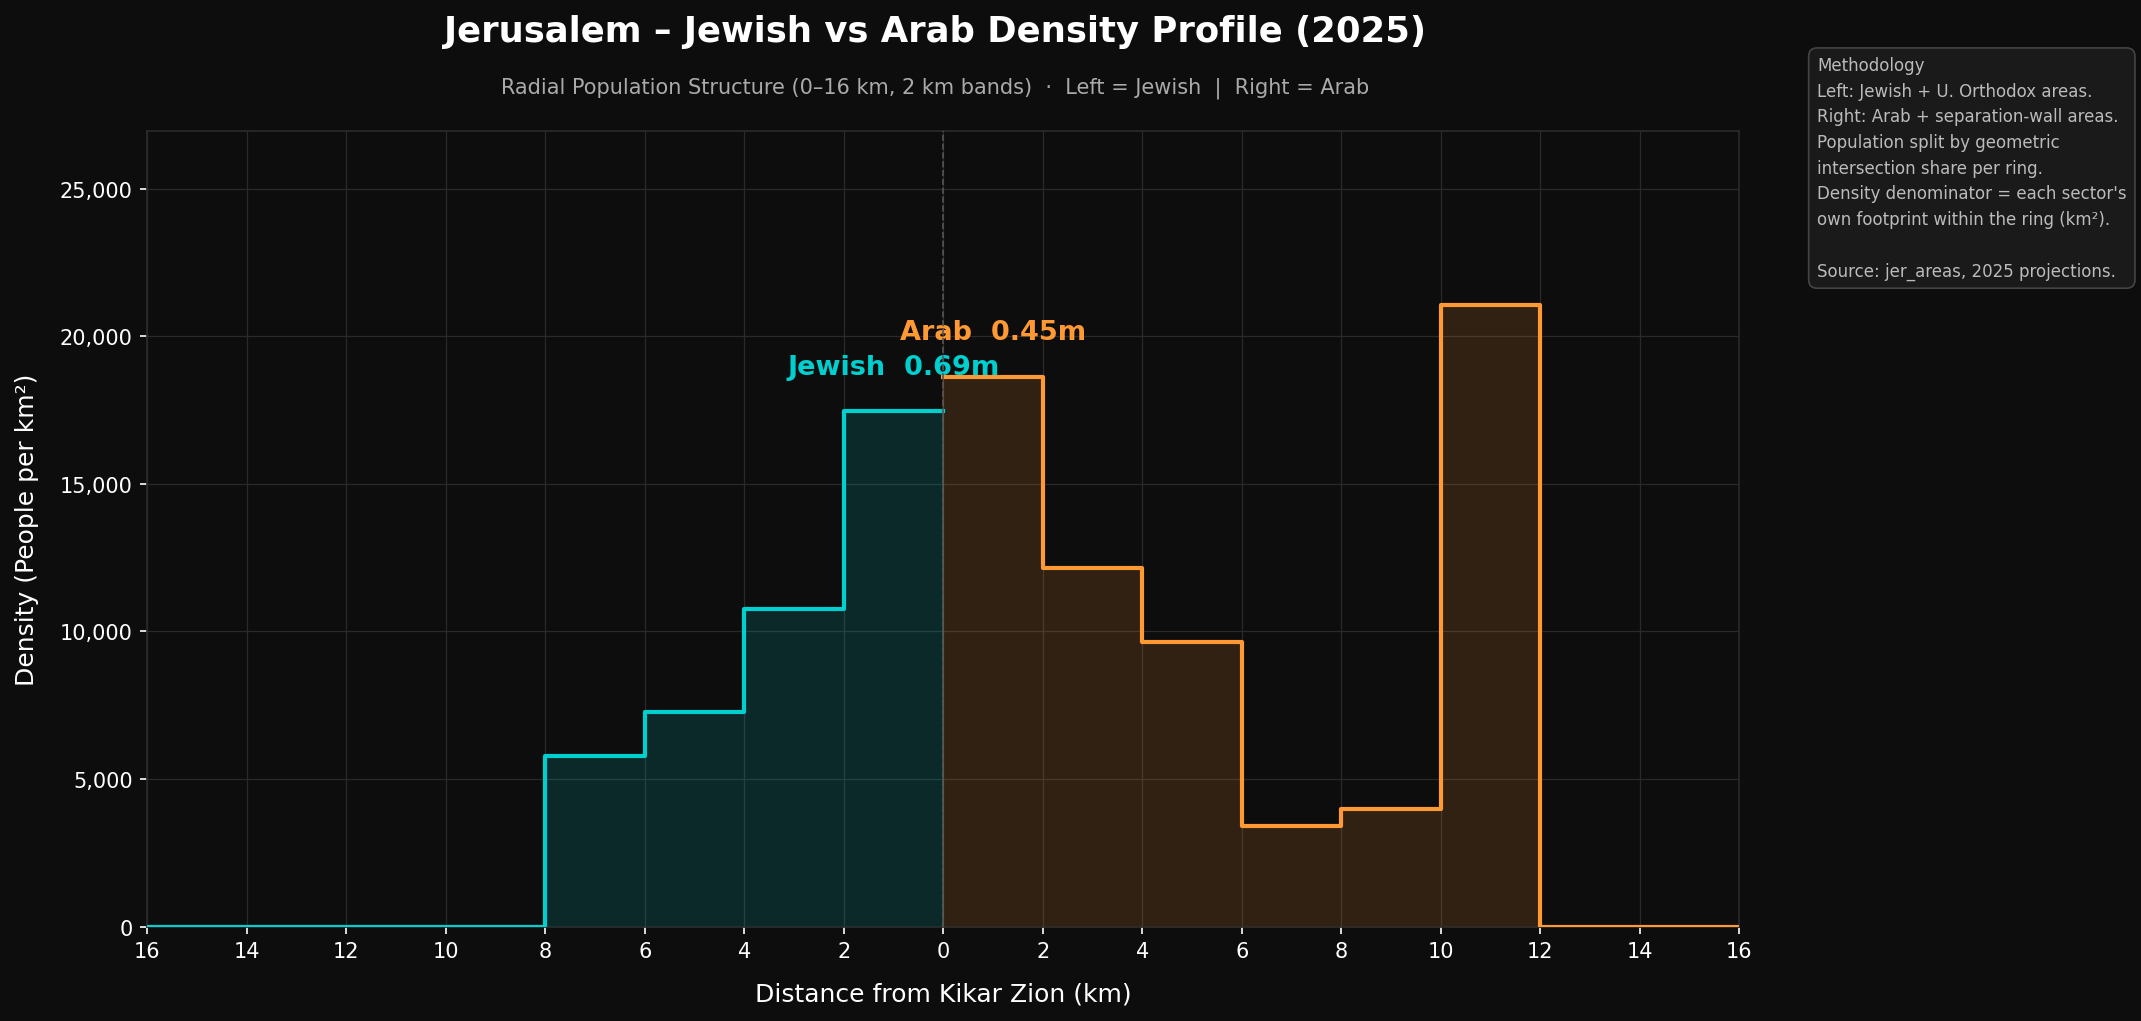
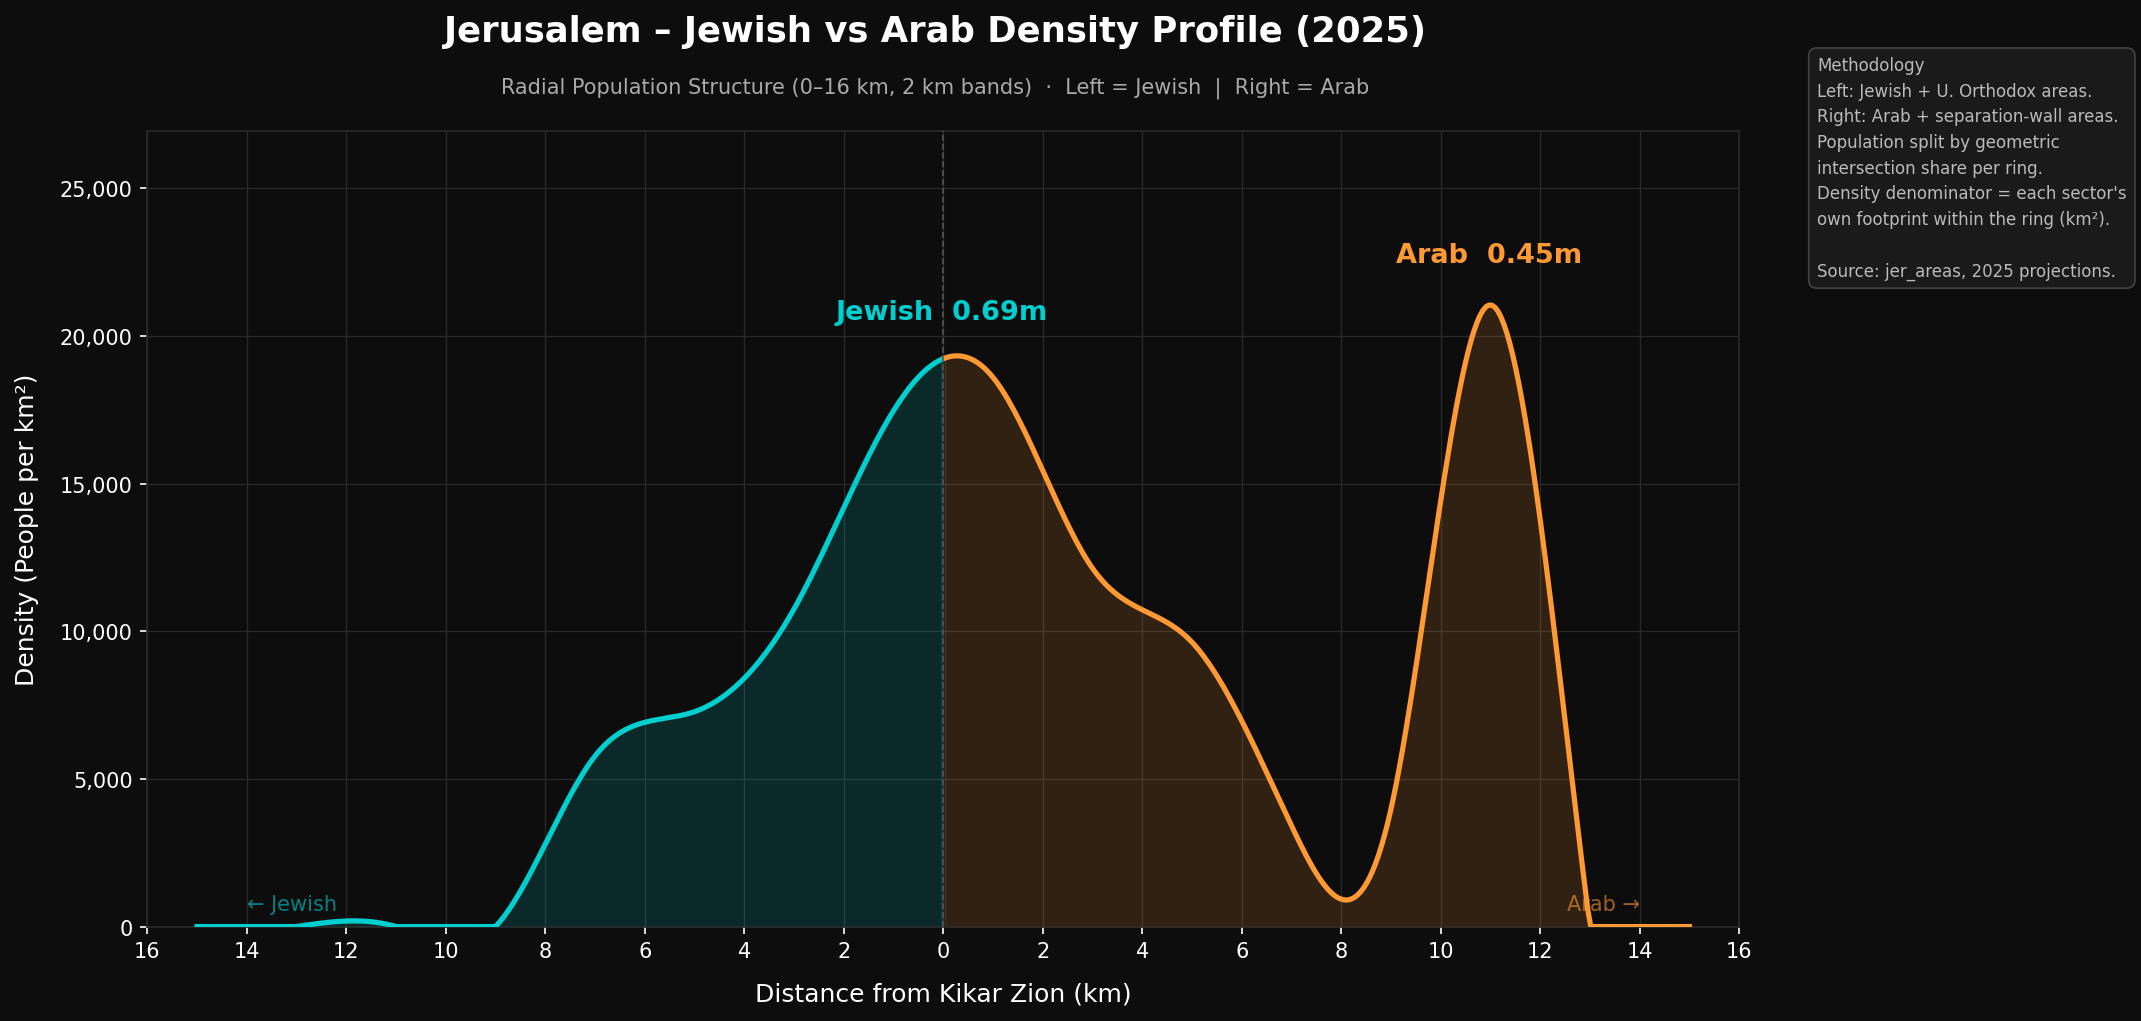
Revert "Fix density profiles: replace spline with discrete ring steps"
This reverts commit e9a63d56a708d9f627fd6543b3e41f07a64047bf.

diff --git a/population_figure/asymmetric_profile.py b/population_figure/asymmetric_profile.py
@@ -13,6 +13,7 @@ import geopandas as gpd
 import matplotlib
 matplotlib.use("Agg")
 import matplotlib.pyplot as plt
+from scipy.interpolate import make_interp_spline
 from shapely.geometry import Point
 import os
 
@@ -85,51 +86,64 @@ print(f"\n  Jewish densities: {[f'{d:,.0f}' for d in jewish_dens]}")
 print(f"  Arab   densities: {[f'{d:,.0f}' for d in arab_dens]}")
 print(f"  Jewish total: {jewish_total:,.0f}   Arab total: {arab_total:,.0f}")
 
-# ── Build step arrays for each side ──────────────────────────────────────────
-rw = RING_WIDTH / 1000  # 2 km
+# ── Build asymmetric x / y ────────────────────────────────────────────────────
+# Left  (negative x) = Jewish, reading outward from centre to left
+# Right (positive x) = Arab,   reading outward from centre to right
+x_left  = -midpoints[::-1]          # -15, -13, …, -1
+x_right =  midpoints                #   1,   3, …,  15
 
-def steps_left(dens):
-    x, y = [], []
-    for r in range(len(dens) - 1, -1, -1):
-        x += [-(r + 1) * rw, -r * rw]
-        y += [dens[r], dens[r]]
-    return np.array(x), np.array(y)
+y_left  = np.array(jewish_dens[::-1])
+y_right = np.array(arab_dens)
 
-def steps_right(dens):
-    x, y = [], []
-    for r in range(len(dens)):
-        x += [r * rw, (r + 1) * rw]
-        y += [dens[r], dens[r]]
-    return np.array(x), np.array(y)
+x = np.concatenate([x_left, x_right])
+y = np.concatenate([y_left, y_right])
 
-xl, yl = steps_left(jewish_dens)
-xr, yr = steps_right(arab_dens)
+x_s = np.linspace(x[0], x[-1], 500)
+y_s = np.clip(make_interp_spline(x, y, k=3)(x_s), 0, None)
+
+# Separate smooth halves for individual fills
+mask_left  = x_s <= 0
+mask_right = x_s >= 0
 
 # ── Plot ──────────────────────────────────────────────────────────────────────
 fig, ax = plt.subplots(figsize=(14, 7), facecolor=BG_COLOR)
 ax.set_facecolor(BG_COLOR)
 
-ax.plot(xl, yl, color=JEWISH_COLOR, linewidth=2.0, zorder=3)
-ax.fill_between(xl, yl, alpha=0.15, color=JEWISH_COLOR, zorder=2)
+# Left (Jewish) – cyan
+ax.plot(x_s[mask_left],  y_s[mask_left],  color=JEWISH_COLOR, linewidth=2.5, zorder=3)
+ax.fill_between(x_s[mask_left], y_s[mask_left], alpha=0.15, color=JEWISH_COLOR, zorder=2)
 
-ax.plot(xr, yr, color=ARAB_COLOR, linewidth=2.0, zorder=3)
-ax.fill_between(xr, yr, alpha=0.15, color=ARAB_COLOR, zorder=2)
+# Right (Arab) – orange
+ax.plot(x_s[mask_right], y_s[mask_right], color=ARAB_COLOR,   linewidth=2.5, zorder=3)
+ax.fill_between(x_s[mask_right], y_s[mask_right], alpha=0.15, color=ARAB_COLOR, zorder=2)
 
+# Centre divider
 ax.axvline(0, color="#555555", linewidth=0.8, linestyle="--", zorder=4)
 
-# Labels at peak ring
-ax.text(-rw / 2, jewish_dens[0] * 1.06,
+# Labels
+jewish_peak_i = int(np.argmax(y_s[mask_left]))
+arab_peak_i   = int(np.argmax(y_s[mask_right]))
+x_lp = x_s[mask_left][jewish_peak_i]
+x_rp = x_s[mask_right][arab_peak_i]
+
+ax.text(x_lp, y_s[mask_left][jewish_peak_i]  * 1.06,
         f"Jewish  {jewish_total/1e6:.2f}m",
         color=JEWISH_COLOR, fontsize=13, fontweight="bold", ha="center", va="bottom")
-ax.text( rw / 2, arab_dens[0] * 1.06,
+ax.text(x_rp, y_s[mask_right][arab_peak_i] * 1.06,
         f"Arab  {arab_total/1e6:.2f}m",
         color=ARAB_COLOR, fontsize=13, fontweight="bold", ha="center", va="bottom")
+
+# Side labels
+ax.text(-14, ax.get_ylim()[1] * 0.02 if ax.get_ylim()[1] > 0 else 200,
+        "← Jewish", color=JEWISH_COLOR, fontsize=10, alpha=0.6, va="bottom")
+ax.text( 14, ax.get_ylim()[1] * 0.02 if ax.get_ylim()[1] > 0 else 200,
+        "Arab →",   color=ARAB_COLOR,   fontsize=10, alpha=0.6, va="bottom", ha="right")
 
 # Grid & axes
 ax.grid(color=GRID_COLOR, linewidth=0.6, linestyle="-", zorder=1)
 ax.set_axisbelow(True)
 ax.set_xlim(-16, 16)
-ax.set_ylim(0, max(yl.max(), yr.max()) * 1.28)
+ax.set_ylim(0, y_s.max() * 1.28)
 
 x_ticks = list(range(-16, 0, 2)) + list(range(0, 17, 2))
 ax.set_xticks(x_ticks)

diff --git a/population_figure/haredi_vs_jewish_profile.py b/population_figure/haredi_vs_jewish_profile.py
@@ -11,6 +11,7 @@ import geopandas as gpd
 import matplotlib
 matplotlib.use("Agg")
 import matplotlib.pyplot as plt
+from scipy.interpolate import make_interp_spline
 from shapely.geometry import Point
 import os
 
@@ -79,49 +80,43 @@ print(f"\n  Haredi densities:  {[f'{d:,.0f}' for d in haredi_dens]}")
 print(f"  Jewish densities:  {[f'{d:,.0f}' for d in jewish_dens]}")
 print(f"  Haredi total: {haredi_total:,.0f}   Jewish total: {jewish_total:,.0f}")
 
-# ── Step arrays ───────────────────────────────────────────────────────────────
-rw = RING_WIDTH / 1000
+# ── Smooth asymmetric curves ──────────────────────────────────────────────────
+x_left  = -midpoints[::-1]
+x_right =  midpoints
+x       = np.concatenate([x_left, x_right])
+x_s     = np.linspace(x[0], x[-1], 500)
+mask_l  = x_s <= 0
+mask_r  = x_s >= 0
 
-def steps_left(dens):
-    x, y = [], []
-    for r in range(len(dens) - 1, -1, -1):
-        x += [-(r + 1) * rw, -r * rw]
-        y += [dens[r], dens[r]]
-    return np.array(x), np.array(y)
-
-def steps_right(dens):
-    x, y = [], []
-    for r in range(len(dens)):
-        x += [r * rw, (r + 1) * rw]
-        y += [dens[r], dens[r]]
-    return np.array(x), np.array(y)
-
-xh, yh = steps_left(haredi_dens)
-xj, yj = steps_right(jewish_dens)
+y_h = np.clip(make_interp_spline(x, np.concatenate([haredi_dens[::-1], haredi_dens]), k=3)(x_s), 0, None)
+y_j = np.clip(make_interp_spline(x, np.concatenate([jewish_dens[::-1], jewish_dens]), k=3)(x_s), 0, None)
 
 # ── Plot ──────────────────────────────────────────────────────────────────────
 fig, ax = plt.subplots(figsize=(14, 7), facecolor=BG_COLOR)
 ax.set_facecolor(BG_COLOR)
 
-ax.plot(xh, yh, color=HAREDI_COLOR, linewidth=2.0, zorder=3)
-ax.fill_between(xh, yh, alpha=0.15, color=HAREDI_COLOR, zorder=2)
+ax.plot(x_s[mask_l], y_h[mask_l], color=HAREDI_COLOR, linewidth=2.5, zorder=3)
+ax.fill_between(x_s[mask_l], y_h[mask_l], alpha=0.15, color=HAREDI_COLOR, zorder=2)
 
-ax.plot(xj, yj, color=JEWISH_COLOR, linewidth=2.0, zorder=3)
-ax.fill_between(xj, yj, alpha=0.15, color=JEWISH_COLOR, zorder=2)
+ax.plot(x_s[mask_r], y_j[mask_r], color=JEWISH_COLOR, linewidth=2.5, zorder=3)
+ax.fill_between(x_s[mask_r], y_j[mask_r], alpha=0.15, color=JEWISH_COLOR, zorder=2)
 
 ax.axvline(0, color="#555555", linewidth=0.8, linestyle="--", zorder=4)
 
-ax.text(-rw / 2, haredi_dens[0] * 1.06,
+# Peak labels
+h_pi = int(np.argmax(y_h[mask_l]))
+j_pi = int(np.argmax(y_j[mask_r]))
+ax.text(x_s[mask_l][h_pi], y_h[mask_l][h_pi] * 1.06,
         f"Haredi  {haredi_total/1e3:.0f}k",
         color=HAREDI_COLOR, fontsize=13, fontweight="bold", ha="center", va="bottom")
-ax.text( rw / 2, jewish_dens[0] * 1.06,
+ax.text(x_s[mask_r][j_pi], y_j[mask_r][j_pi] * 1.06,
         f"Non-Haredi Jewish  {jewish_total/1e3:.0f}k",
         color=JEWISH_COLOR, fontsize=13, fontweight="bold", ha="center", va="bottom")
 
 ax.grid(color=GRID_COLOR, linewidth=0.6, linestyle="-", zorder=1)
 ax.set_axisbelow(True)
 ax.set_xlim(-16, 16)
-ax.set_ylim(0, max(yh.max(), yj.max()) * 1.28)
+ax.set_ylim(0, max(y_h.max(), y_j.max()) * 1.28)
 
 x_ticks = list(range(-16, 0, 2)) + list(range(0, 17, 2))
 ax.set_xticks(x_ticks)

diff --git a/population_figure/pop_vs_emp_profile.py b/population_figure/pop_vs_emp_profile.py
@@ -10,6 +10,7 @@ import geopandas as gpd
 import matplotlib
 matplotlib.use("Agg")
 import matplotlib.pyplot as plt
+from scipy.interpolate import make_interp_spline
 from shapely.geometry import Point
 import os
 
@@ -85,41 +86,37 @@ print(f"  Pop total: {pop_total:,.0f}   Emp total: {emp_total:,.0f}")
 x_left  = -midpoints[::-1]
 x_right =  midpoints
 
-rw = RING_WIDTH / 1000
+x = np.concatenate([x_left, x_right])
+y_pop_sym = np.concatenate([pop_dens[::-1], pop_dens])   # full mirror for spline
+y_emp_sym = np.concatenate([emp_dens[::-1], emp_dens])
 
-def steps_left(dens):
-    x, y = [], []
-    for r in range(len(dens) - 1, -1, -1):
-        x += [-(r + 1) * rw, -r * rw]
-        y += [dens[r], dens[r]]
-    return np.array(x), np.array(y)
+x_s = np.linspace(x[0], x[-1], 500)
+mask_l = x_s <= 0
+mask_r = x_s >= 0
 
-def steps_right(dens):
-    x, y = [], []
-    for r in range(len(dens)):
-        x += [r * rw, (r + 1) * rw]
-        y += [dens[r], dens[r]]
-    return np.array(x), np.array(y)
-
-xl_pop, yl_pop = steps_left(pop_dens)
-xr_emp, yr_emp = steps_right(emp_dens)
+y_pop_s = np.clip(make_interp_spline(x, y_pop_sym, k=3)(x_s), 0, None)
+y_emp_s = np.clip(make_interp_spline(x, y_emp_sym, k=3)(x_s), 0, None)
 
 # ── Plot ──────────────────────────────────────────────────────────────────────
 fig, ax = plt.subplots(figsize=(14, 7), facecolor=BG_COLOR)
 ax.set_facecolor(BG_COLOR)
 
-ax.plot(xl_pop, yl_pop, color=POP_COLOR, linewidth=2.0, zorder=3)
-ax.fill_between(xl_pop, yl_pop, alpha=0.15, color=POP_COLOR, zorder=2)
+ax.plot(x_s[mask_l], y_pop_s[mask_l], color=POP_COLOR, linewidth=2.5, zorder=3)
+ax.fill_between(x_s[mask_l], y_pop_s[mask_l], alpha=0.15, color=POP_COLOR, zorder=2)
 
-ax.plot(xr_emp, yr_emp, color=EMP_COLOR, linewidth=2.0, zorder=3)
-ax.fill_between(xr_emp, yr_emp, alpha=0.15, color=EMP_COLOR, zorder=2)
+ax.plot(x_s[mask_r], y_emp_s[mask_r], color=EMP_COLOR, linewidth=2.5, zorder=3)
+ax.fill_between(x_s[mask_r], y_emp_s[mask_r], alpha=0.15, color=EMP_COLOR, zorder=2)
 
 ax.axvline(0, color="#555555", linewidth=0.8, linestyle="--", zorder=4)
 
-ax.text(-rw / 2, pop_dens[0] * 1.06,
+# Peak labels
+pop_pi = int(np.argmax(y_pop_s[mask_l]))
+emp_pi = int(np.argmax(y_emp_s[mask_r]))
+
+ax.text(x_s[mask_l][pop_pi], y_pop_s[mask_l][pop_pi] * 1.06,
         f"Population  {pop_total/1e6:.2f}m",
         color=POP_COLOR, fontsize=13, fontweight="bold", ha="center", va="bottom")
-ax.text( rw / 2, emp_dens[0] * 1.06,
+ax.text(x_s[mask_r][emp_pi], y_emp_s[mask_r][emp_pi] * 1.06,
         f"Employment  {emp_total/1e3:.0f}k",
         color=EMP_COLOR, fontsize=13, fontweight="bold", ha="center", va="bottom")
 
@@ -127,7 +124,7 @@ ax.text( rw / 2, emp_dens[0] * 1.06,
 ax.grid(color=GRID_COLOR, linewidth=0.6, linestyle="-", zorder=1)
 ax.set_axisbelow(True)
 ax.set_xlim(-16, 16)
-ax.set_ylim(0, max(yl_pop.max(), yr_emp.max()) * 1.28)
+ax.set_ylim(0, max(y_pop_s.max(), y_emp_s.max()) * 1.28)
 
 x_ticks = list(range(-16, 0, 2)) + list(range(0, 17, 2))
 ax.set_xticks(x_ticks)

diff --git a/population_figure/density_profile.py b/population_figure/density_profile.py
@@ -12,6 +12,7 @@ import geopandas as gpd
 import matplotlib
 matplotlib.use("Agg")
 import matplotlib.pyplot as plt
+from scipy.interpolate import make_interp_spline
 from shapely.geometry import Point
 import os
 
@@ -89,25 +90,21 @@ def make_figure(year):
     pop_label = f"{total_pop / 1e6:.2f}m"
     print(f"  Total within 16 km: {total_pop:,.0f}  → {pop_label}")
 
-    # Build symmetric step arrays (flat within each 2 km ring)
-    rw = RING_WIDTH / 1000  # 2 km
-    x_s, y_s = [], []
-    for r in range(N_RINGS - 1, -1, -1):   # left side: outer → inner
-        x_s += [-(r + 1) * rw, -r * rw]
-        y_s += [ring_densities[r], ring_densities[r]]
-    for r in range(N_RINGS):               # right side: inner → outer
-        x_s += [r * rw, (r + 1) * rw]
-        y_s += [ring_densities[r], ring_densities[r]]
-    x_s, y_s = np.array(x_s), np.array(y_s)
+    x = np.concatenate([-MIDPOINTS[::-1], MIDPOINTS])
+    y = np.concatenate([ring_densities[::-1], ring_densities])
+
+    x_smooth = np.linspace(x[0], x[-1], 500)
+    y_smooth  = np.clip(make_interp_spline(x, y, k=3)(x_smooth), 0, None)
 
     fig, ax = plt.subplots(figsize=(14, 7), facecolor=BG_COLOR)
     ax.set_facecolor(BG_COLOR)
 
-    ax.plot(x_s, y_s, color=CITY_COLOR, linewidth=2.0, zorder=3)
-    ax.fill_between(x_s, y_s, alpha=FILL_ALPHA, color=CITY_COLOR, zorder=2)
+    ax.plot(x_smooth, y_smooth, color=CITY_COLOR, linewidth=2.5, zorder=3)
+    ax.fill_between(x_smooth, y_smooth, alpha=FILL_ALPHA, color=CITY_COLOR, zorder=2)
 
+    peak_i = int(np.argmax(y_smooth))
     ax.text(
-        0, ring_densities[0] * 1.06,
+        x_smooth[peak_i], y_smooth[peak_i] * 1.06,
         f"Jerusalem {pop_label}",
         color=CITY_COLOR, fontsize=14, fontweight="bold",
         ha="center", va="bottom",
@@ -117,7 +114,7 @@ def make_figure(year):
     ax.set_axisbelow(True)
 
     ax.set_xlim(-16, 16)
-    ax.set_ylim(0, y_s.max() * 1.25)
+    ax.set_ylim(0, y_smooth.max() * 1.25)
     x_ticks = list(range(-16, 0, 2)) + list(range(0, 17, 2))
     ax.set_xticks(x_ticks)
     ax.set_xticklabels([str(abs(v)) for v in x_ticks], color=TEXT_COLOR, fontsize=10)

diff --git a/population_figure/combined_profile.py b/population_figure/combined_profile.py
@@ -10,6 +10,7 @@ import geopandas as gpd
 import matplotlib
 matplotlib.use("Agg")
 import matplotlib.pyplot as plt
+from scipy.interpolate import make_interp_spline
 from shapely.geometry import Point
 import os
 
@@ -80,22 +81,21 @@ for cfg in YEARS:
     total_pop = (inter_frac_16 * pop).fillna(0).sum()
     pop_label = f"{total_pop / 1e6:.2f}m"
 
-    rw = RING_WIDTH / 1000
-    x_s, y_s = [], []
-    for r in range(N_RINGS - 1, -1, -1):
-        x_s += [-(r + 1) * rw, -r * rw]
-        y_s += [densities[r], densities[r]]
-    for r in range(N_RINGS):
-        x_s += [r * rw, (r + 1) * rw]
-        y_s += [densities[r], densities[r]]
-    x_s, y_s = np.array(x_s), np.array(y_s)
+    x = np.concatenate([-midpoints[::-1], midpoints])
+    y = np.concatenate([densities[::-1], densities])
+
+    x_s = np.linspace(x[0], x[-1], 500)
+    y_s = np.clip(make_interp_spline(x, y, k=3)(x_s), 0, None)
     y_max_global = max(y_max_global, y_s.max())
 
-    ax.plot(x_s, y_s, color=color, linewidth=2.0, zorder=3, label=f"{year}")
+    ax.plot(x_s, y_s, color=color, linewidth=2.5, zorder=3, label=f"{year}")
     ax.fill_between(x_s, y_s, alpha=0.12, color=color, zorder=2)
 
+    peak_i = int(np.argmax(y_s))
+    # Stagger labels slightly so they don't overlap
+    v_offset = cfg["label_offset"]
     ax.text(
-        0, densities[0] * cfg["label_offset"],
+        x_s[peak_i], y_s[peak_i] * v_offset,
         f"Jerusalem {year}  {pop_label}",
         color=color, fontsize=13, fontweight="bold",
         ha="center", va="bottom",

diff --git a/population_figure/combined_profile_jewish.py b/population_figure/combined_profile_jewish.py
@@ -12,6 +12,7 @@ import geopandas as gpd
 import matplotlib
 matplotlib.use("Agg")
 import matplotlib.pyplot as plt
+from scipy.interpolate import make_interp_spline
 from shapely.geometry import Point
 import os
 
@@ -98,22 +99,19 @@ for cfg in YEARS:
     total_pop = (inter_frac_16 * pop).fillna(0).sum()
     pop_label = f"{total_pop / 1e6:.2f}m"
 
-    rw = RING_WIDTH / 1000
-    x_s, y_s = [], []
-    for r in range(N_RINGS - 1, -1, -1):
-        x_s += [-(r + 1) * rw, -r * rw]
-        y_s += [densities[r], densities[r]]
-    for r in range(N_RINGS):
-        x_s += [r * rw, (r + 1) * rw]
-        y_s += [densities[r], densities[r]]
-    x_s, y_s = np.array(x_s), np.array(y_s)
+    x = np.concatenate([-midpoints[::-1], midpoints])
+    y = np.concatenate([densities[::-1], densities])
+
+    x_s = np.linspace(x[0], x[-1], 500)
+    y_s = np.clip(make_interp_spline(x, y, k=3)(x_s), 0, None)
     y_max_global = max(y_max_global, y_s.max())
 
-    ax.plot(x_s, y_s, color=color, linewidth=2.0, zorder=3)
+    ax.plot(x_s, y_s, color=color, linewidth=2.5, zorder=3)
     ax.fill_between(x_s, y_s, alpha=0.12, color=color, zorder=2)
 
+    peak_i = int(np.argmax(y_s))
     ax.text(
-        0, densities[0] * cfg["label_offset"],
+        x_s[peak_i], y_s[peak_i] * cfg["label_offset"],
         f"Jerusalem (Jewish) {year}  {pop_label}",
         color=color, fontsize=13, fontweight="bold",
         ha="center", va="bottom",
